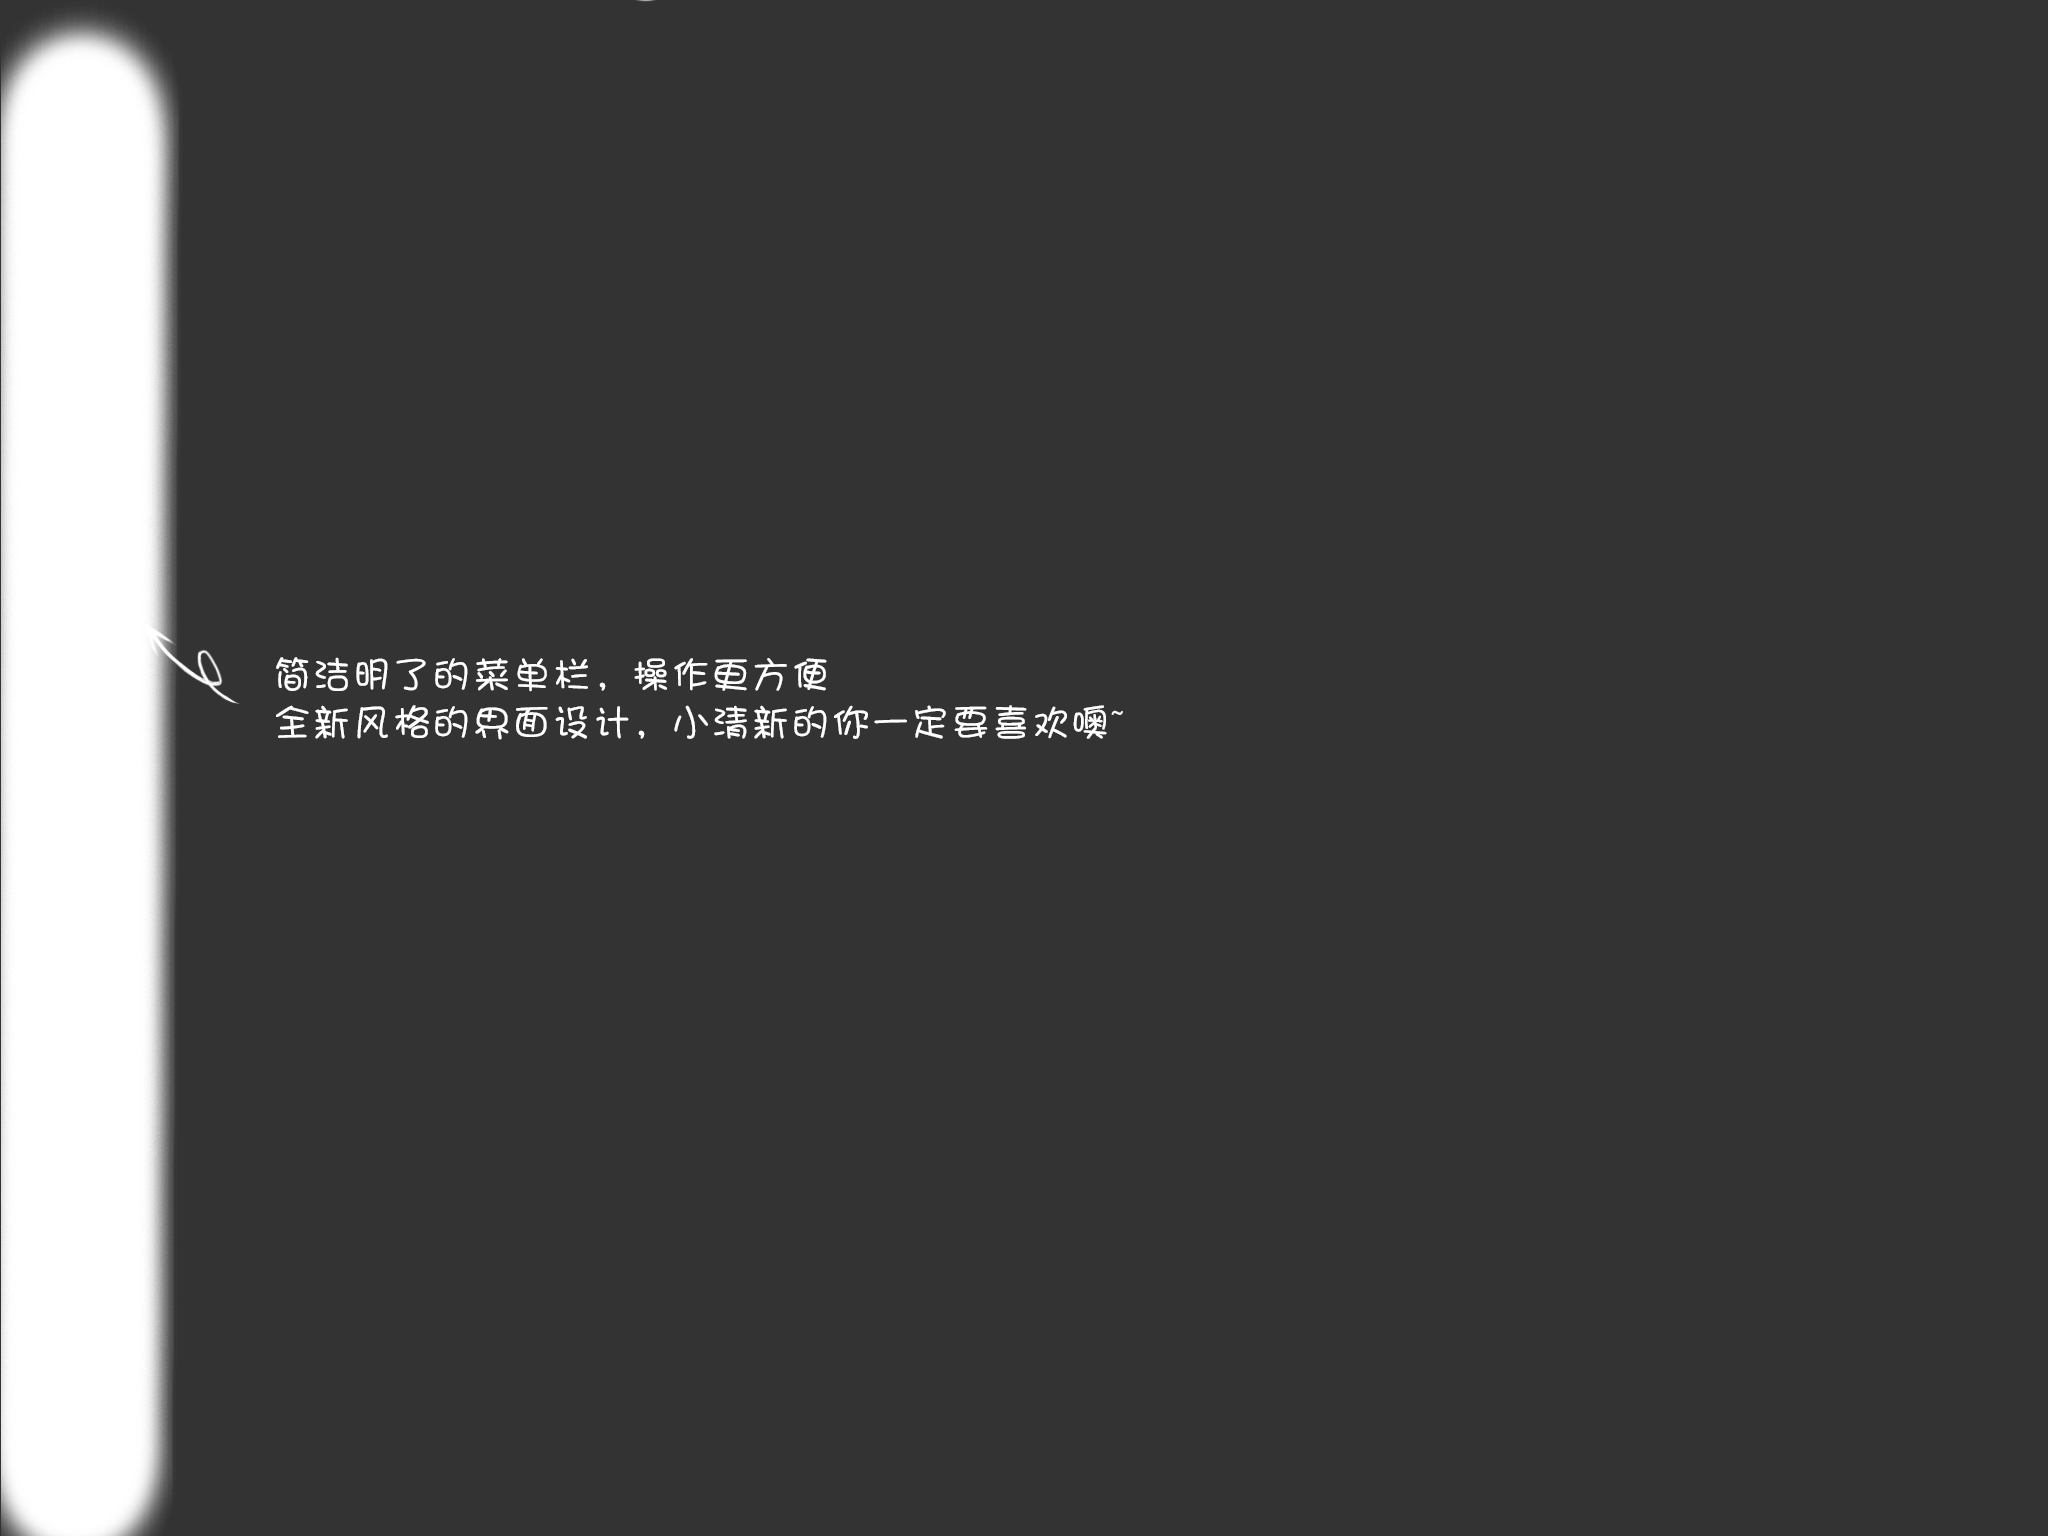
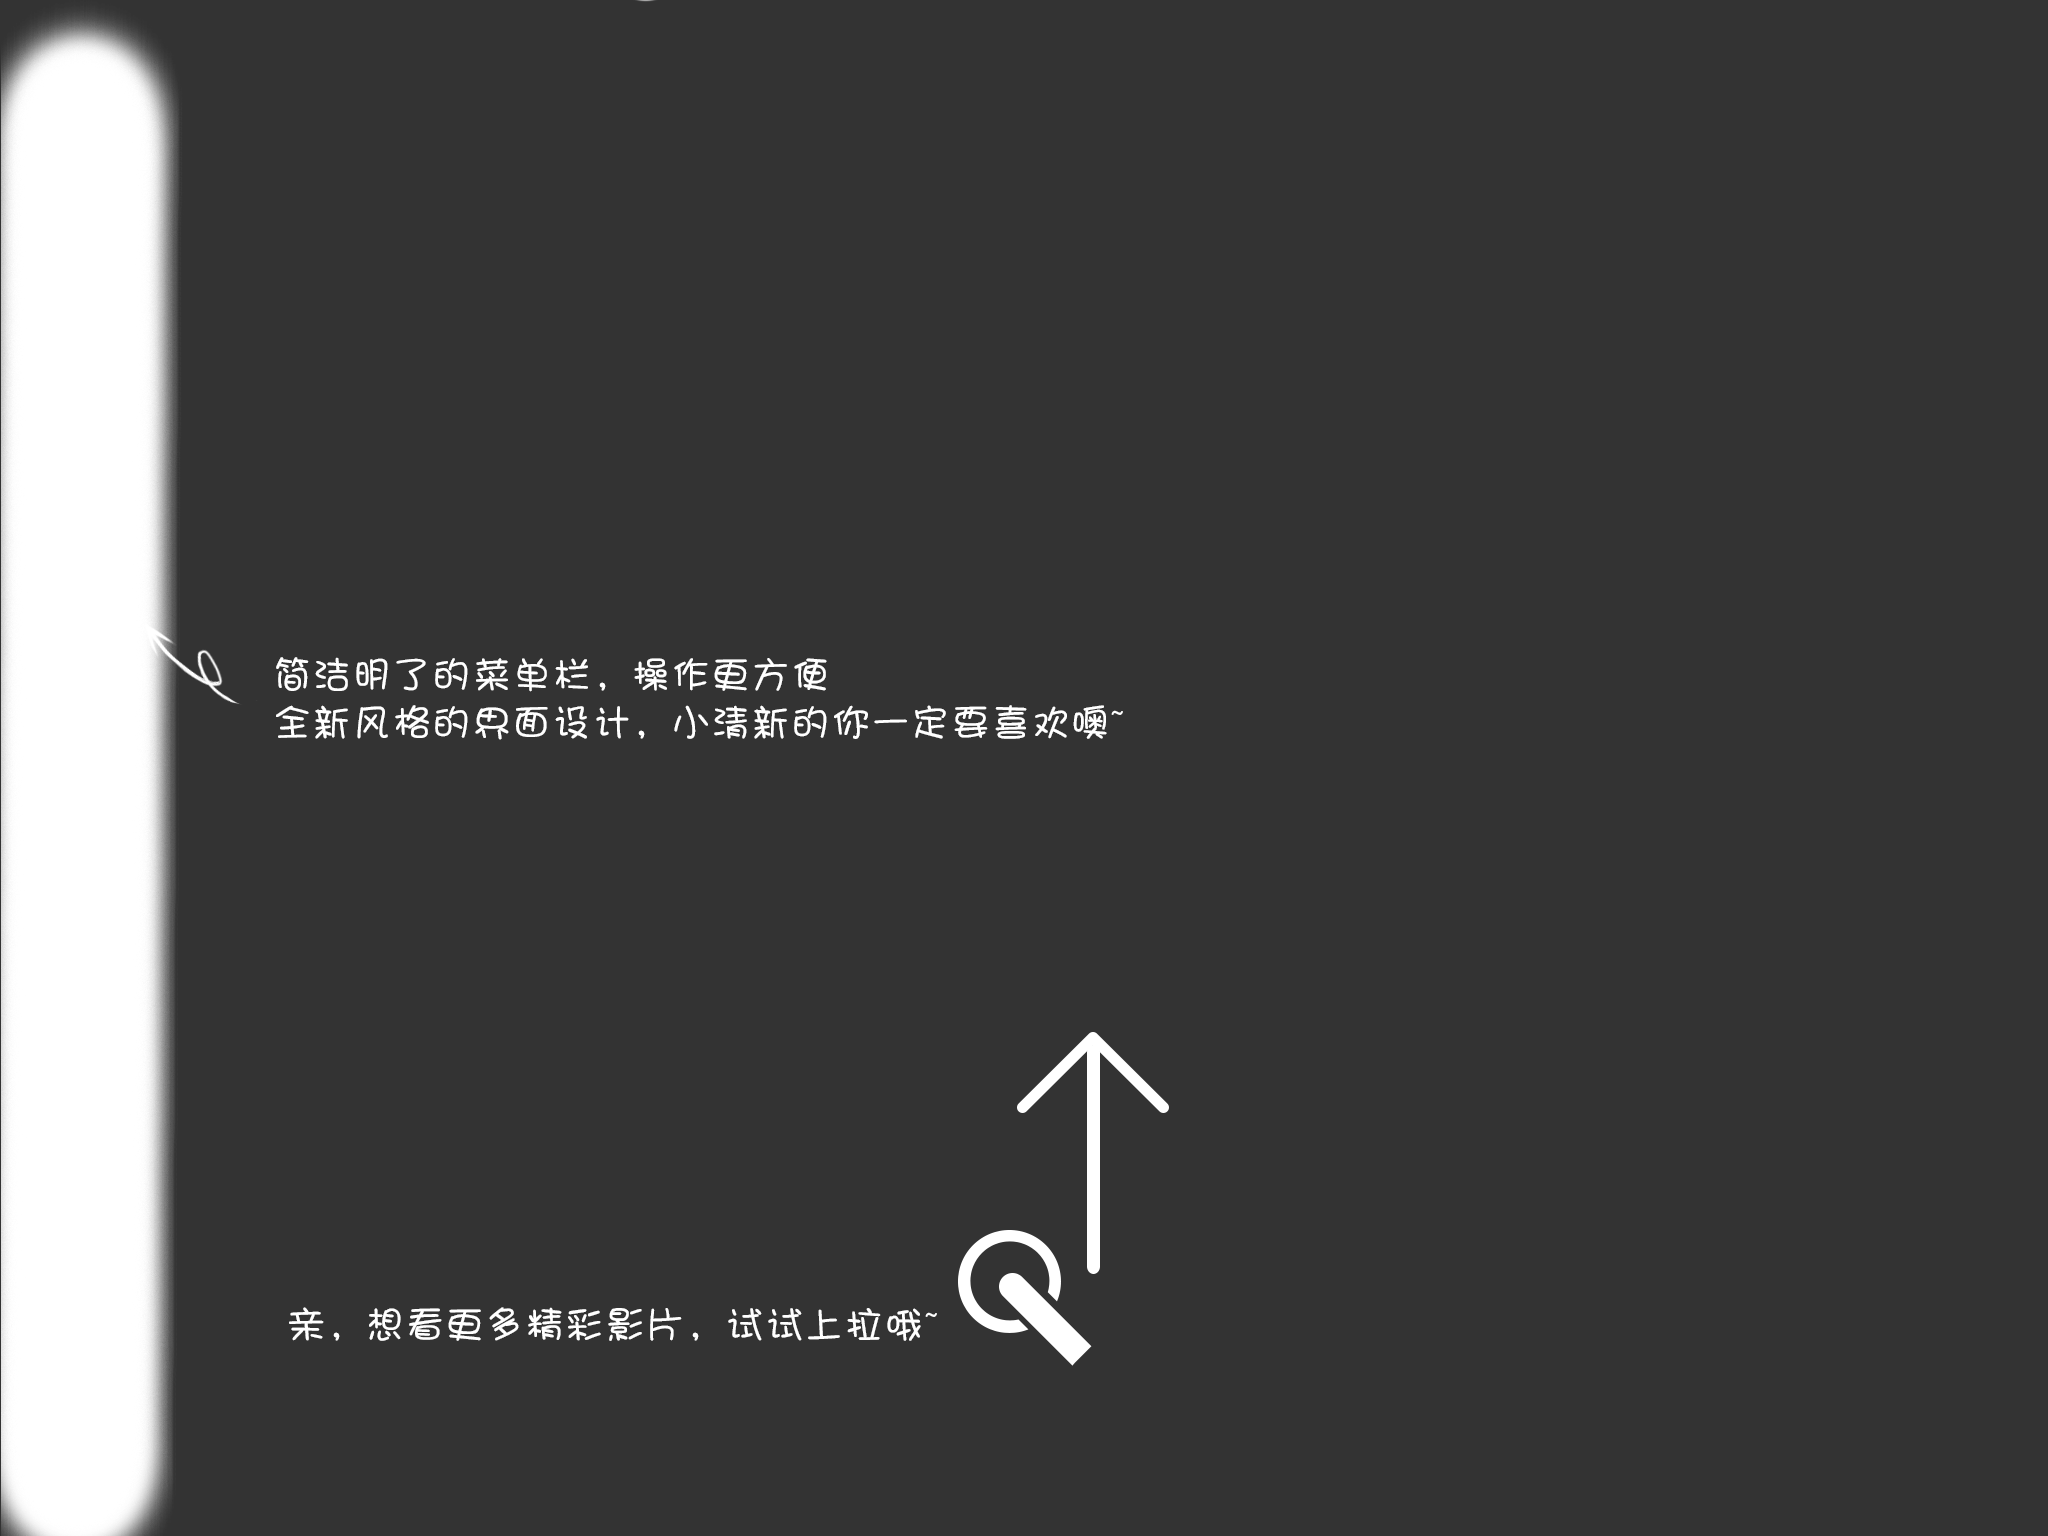
bug fix

Changed region(s): [[0.125, 0.7812, 0.5312, 0.9062], [0.5, 0.6562, 0.5625, 0.8125]]

diff --git a/yueshipin_ipad/yueshipin_ipad/src/PopularTopViewController.m b/yueshipin_ipad/yueshipin_ipad/src/PopularTopViewController.m
@@ -129,7 +129,7 @@
 - (void)viewDidAppear:(BOOL)animated
 {
     [super viewDidAppear:animated];
-    [[AppDelegate instance].rootViewController showIntroModalView:SHOW_MENU_INTRO introImage:[UIImage imageNamed:@"menu_intro"]];
+    [[AppDelegate instance].rootViewController showIntroModalView:SHOW_MENU_INTRO introImage:[UIImage imageNamed:@"menu_intro_yuebang"]];
 }
 
 - (void)viewWillDisappear:(BOOL)animated

diff --git a/yueshipin_ipad/yueshipin_ipad/src/common/CMConstants.h b/yueshipin_ipad/yueshipin_ipad/src/common/CMConstants.h
@@ -101,6 +101,7 @@
 
 #define SHOW_MENU_INTRO @"show_menu_intro"
 #define WEIBO_INTRO @"weibbo_intro"
+#define SHOW_MENU_INTRO_YUEDAN @"show_menu_intro_yuedan"
 #define SHOW_PLAY_INTRO_WITH_DOWNLOAD @"show_play_intro_with_download"
 #define WIFI_IS_NOT_AVAILABLE @"wifi_is_not_available"
 #define KEY_NETWORK_BECOME_AVAILABLE    (@"network_available")

diff --git a/yueshipin_ipad/yueshipin_ipad/src/PopularListViewController.m b/yueshipin_ipad/yueshipin_ipad/src/PopularListViewController.m
@@ -122,6 +122,8 @@
 - (void)viewWillAppear:(BOOL)animated
 {
     [super viewWillAppear:animated];
+    [[AppDelegate instance].rootViewController showIntroModalView:SHOW_MENU_INTRO_YUEDAN introImage:[UIImage imageNamed:@"menu_intro"]];
+    
     if (0 == lunboArray.count)
     {
         [self retrieveLunboData];
